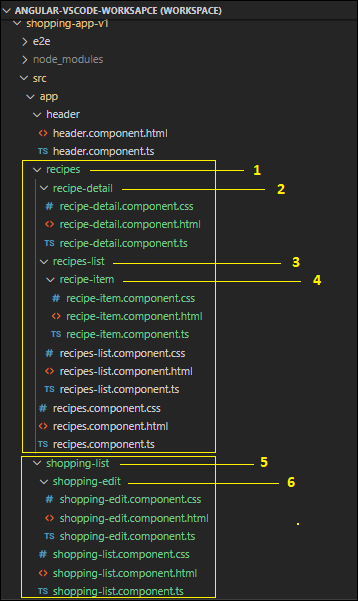
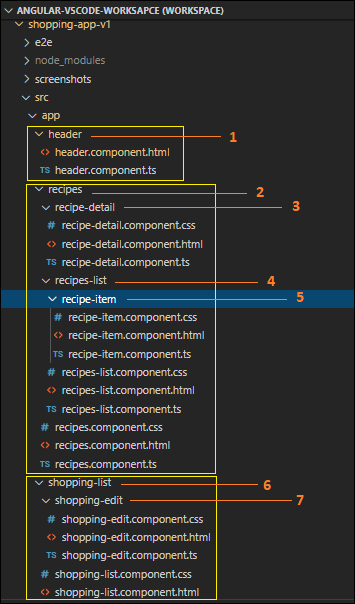
README.md updated

diff --git a/shopping-app-v1/src/app/app.component.html b/shopping-app-v1/src/app/app.component.html
@@ -5,7 +5,11 @@
 <div class="container">
     <div class="row">
         <div class="col-md-12">
-            <h2>I am working</h2>
+            <app-recipes></app-recipes>
+            <app-recipe-detail></app-recipe-detail>
+            <app-recipes-list></app-recipes-list>
+            <app-shopping-list></app-shopping-list>
+            <app-shopping-edit></app-shopping-edit>
         </div>
     </div>
 </div>

diff --git a/shopping-app-v1/src/app/app.module.ts b/shopping-app-v1/src/app/app.module.ts
@@ -19,7 +19,7 @@ import { ShoppingEditComponent } from './shopping-list/shopping-edit/shopping-ed
     RecipeDetailComponent,
     RecipeItemComponent,
     ShoppingListComponent,
-    ShoppingEditComponent // Declared custom component named 'HeaderComponent' to @NgModule
+    ShoppingEditComponent
   ],
   imports: [
     BrowserModule

diff --git a/shopping-app-v1/src/app/header/header.component.html b/shopping-app-v1/src/app/header/header.component.html
@@ -1,1 +1,1 @@
-<h1>I am the Header Component.</h1>
+<h1>app-header works!</h1>
